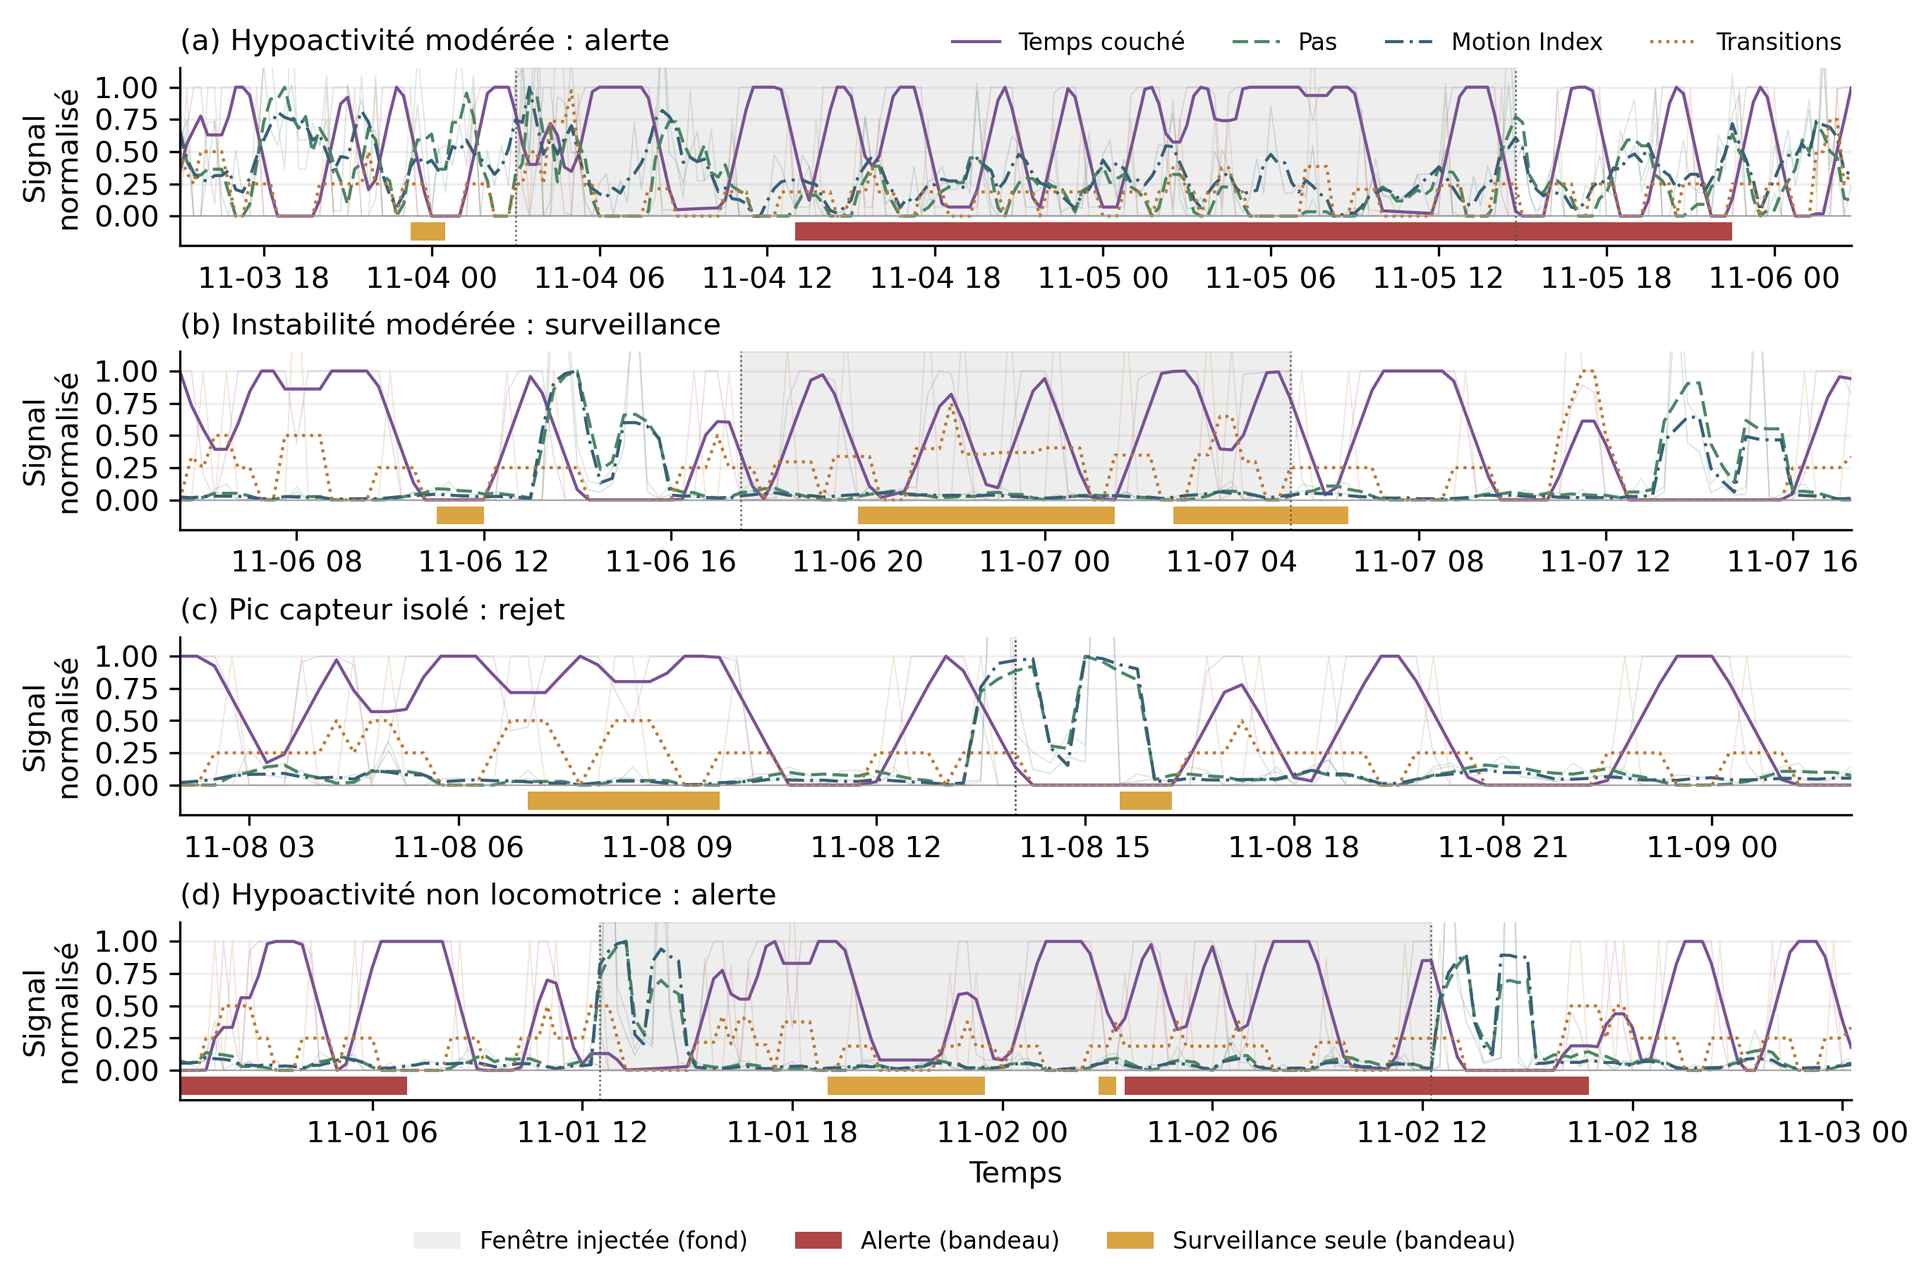
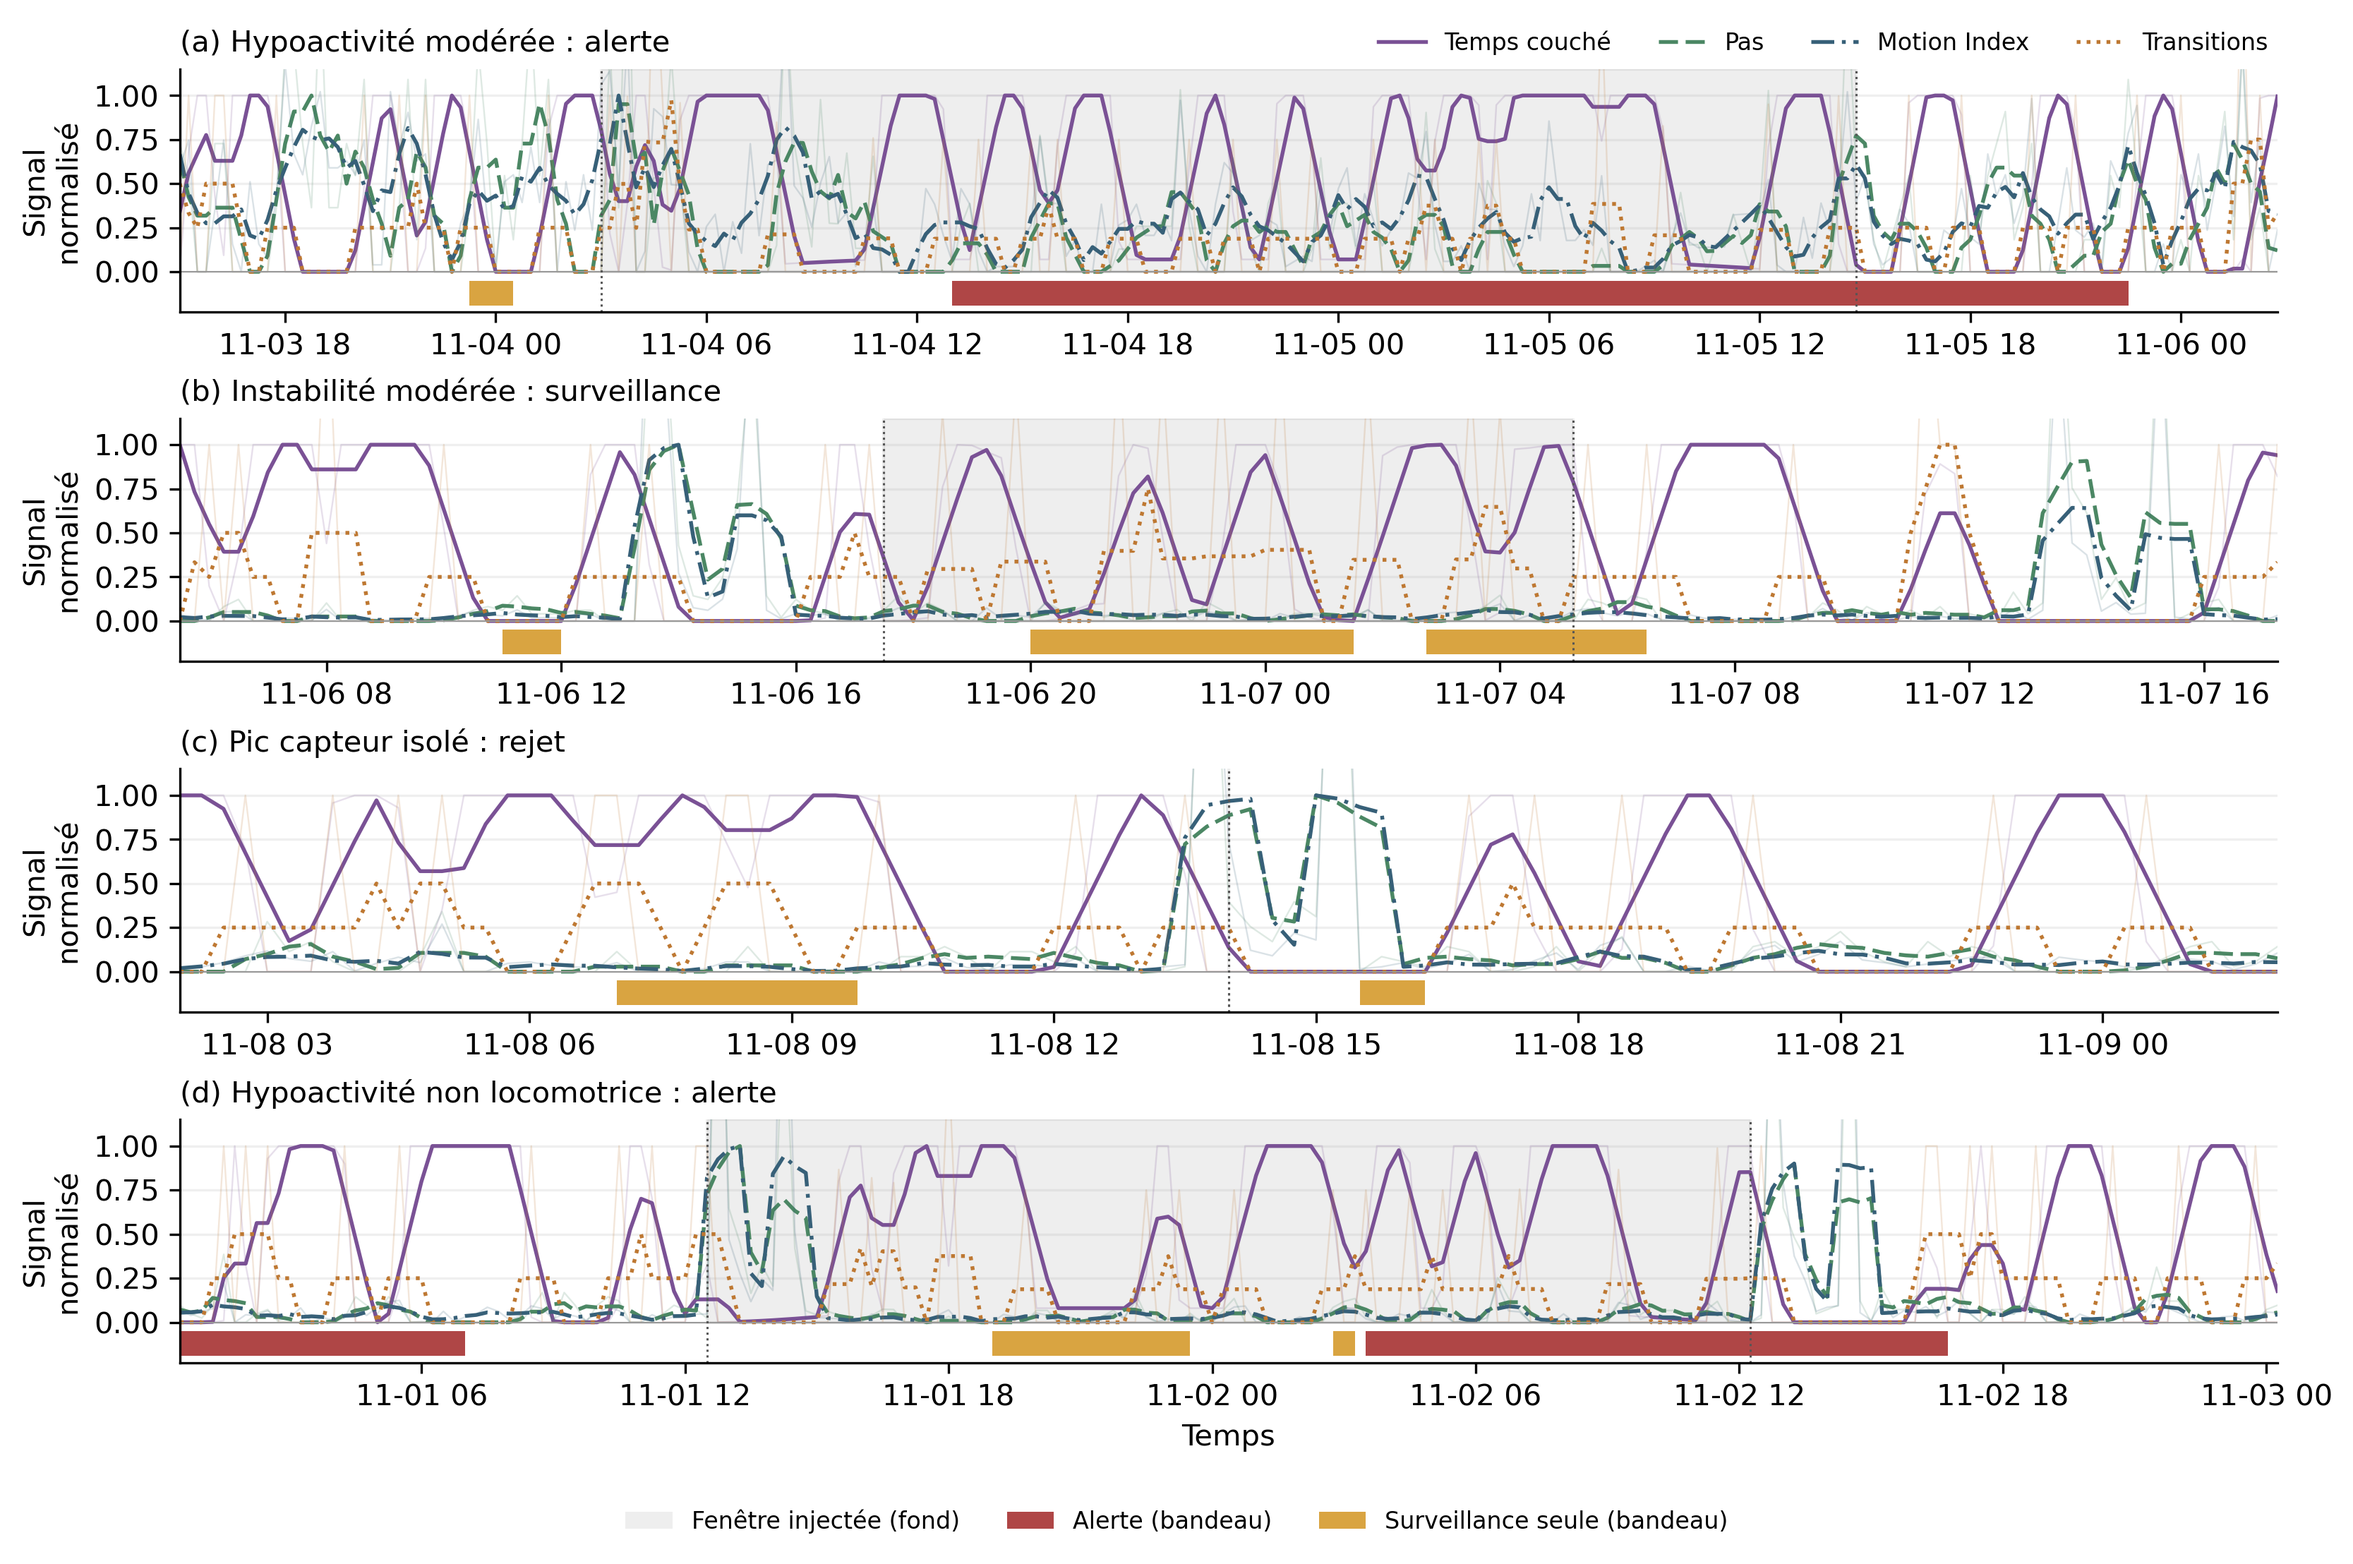
memoirev3: regler la figure 6.2 a onze pouces
A neuf pouces le texte etait confortable mais les graduations mangeaient
9,3 pour cent de la largeur, contre 6,1 dans la version d'origine : les
courbes y perdaient de l'air, ce qui se voyait.

Onze pouces tiennent les trois criteres a la fois. Le texte reste a 6,2 et
7,7 points, au-dessus du seuil de lecture ; la marge des graduations
retombe a 7,6 pour cent ; les epaisseurs, suivies du meme facteur, rendent
la courbe a 1,00 point contre 1,01 a l'origine. La finesse passe meme a
389 points par pouce, au-dessus des 349 d'origine.

129 pages, PDF/A-1b valide, 138 tests.

Changed region(s): [[0.0, 0.0, 0.9949, 0.9231], [0.2487, 0.9538, 0.7772, 0.9846]]

diff --git a/scripts/plot_manuscript_results.py b/scripts/plot_manuscript_results.py
@@ -179,8 +179,10 @@ def plot_manual_review() -> None:
         ("nonlocomotor_hypoactivity", "Hypoactivité non locomotrice"),
     ]
     # Meme raison que pour la figure des regles de fusion : a 13,5 pouces, la
-    # reduction a la largeur d'une colonne ramenait les etiquettes sous 4 points.
-    fig, axes = plt.subplots(4, 1, figsize=(9.0, 5.6), constrained_layout=True)
+    # reduction ramenait les etiquettes a 5 points. A 11 pouces elles remontent
+    # au-dessus de 6 tout en laissant aux courbes presque toute leur largeur ; les
+    # epaisseurs suivent le meme facteur pour que les traits gardent leur finesse.
+    fig, axes = plt.subplots(4, 1, figsize=(11.0, 6.84), constrained_layout=True)
     # Le temps couche accompagne les trois canaux d'activite : la posture pese
     # 0,20 dans le score HYPO et porte la fragmentation posturale de la branche
     # INSTABILITE. Sans elle, le panneau de l'instabilite illustrait un
@@ -240,12 +242,12 @@ def plot_manual_review() -> None:
             # l'axe. Un centile eleve reléverait les canaux d'activite ecrases
             # du panneau (b), mais tronquerait 2 a 4 % des points au sommet.
             scale = max(1.0, float(smoothed.max()))
-            ax.plot(view[TIME], raw_values / scale, color=color, linewidth=0.45, alpha=0.18)
+            ax.plot(view[TIME], raw_values / scale, color=color, linewidth=0.57, alpha=0.18)
             ax.plot(
                 view[TIME],
                 smoothed / scale,
                 color=color,
-                linewidth=1.05,
+                linewidth=1.30,
                 linestyle=traits[column],
                 label=labels_signaux[column],
             )
@@ -263,14 +265,14 @@ def plot_manual_review() -> None:
                         color=ZONE_SURVEILLANCE, step="mid", lw=0)
         ax.fill_between(view[TIME], LANE_BOTTOM, LANE_TOP, where=episode,
                         color=ZONE_ALERTE, step="mid", lw=0)
-        ax.axhline(0.0, color="#999999", linewidth=0.4)
+        ax.axhline(0.0, color="#999999", linewidth=0.49)
         signal_floor = (0.0 - YMIN) / (YMAX - YMIN)
         ax.axvspan(pd.Timestamp(event["start"]), pd.Timestamp(event["end"]),
                    ymin=signal_floor, ymax=1.0, color=ZONE_INJECTEE, alpha=0.12)
         # Bornes verticales : sans elles, une fenetre injectee d'un seul pas de
         # quinze minutes est invisible sur trois jours d'axe.
         for bound in (event["start"], event["end"]):
-            ax.axvline(pd.Timestamp(bound), color="#555555", linestyle=":", linewidth=0.6)
+            ax.axvline(pd.Timestamp(bound), color="#555555", linestyle=":", linewidth=0.73)
         in_event = view[TIME].between(event["start"], event["end"])
         detected = bool(view.loc[in_event, "hybrid_warning_episode"].max())
         surveillance = bool(view.loc[in_event, "instability_warning_episode"].max())
